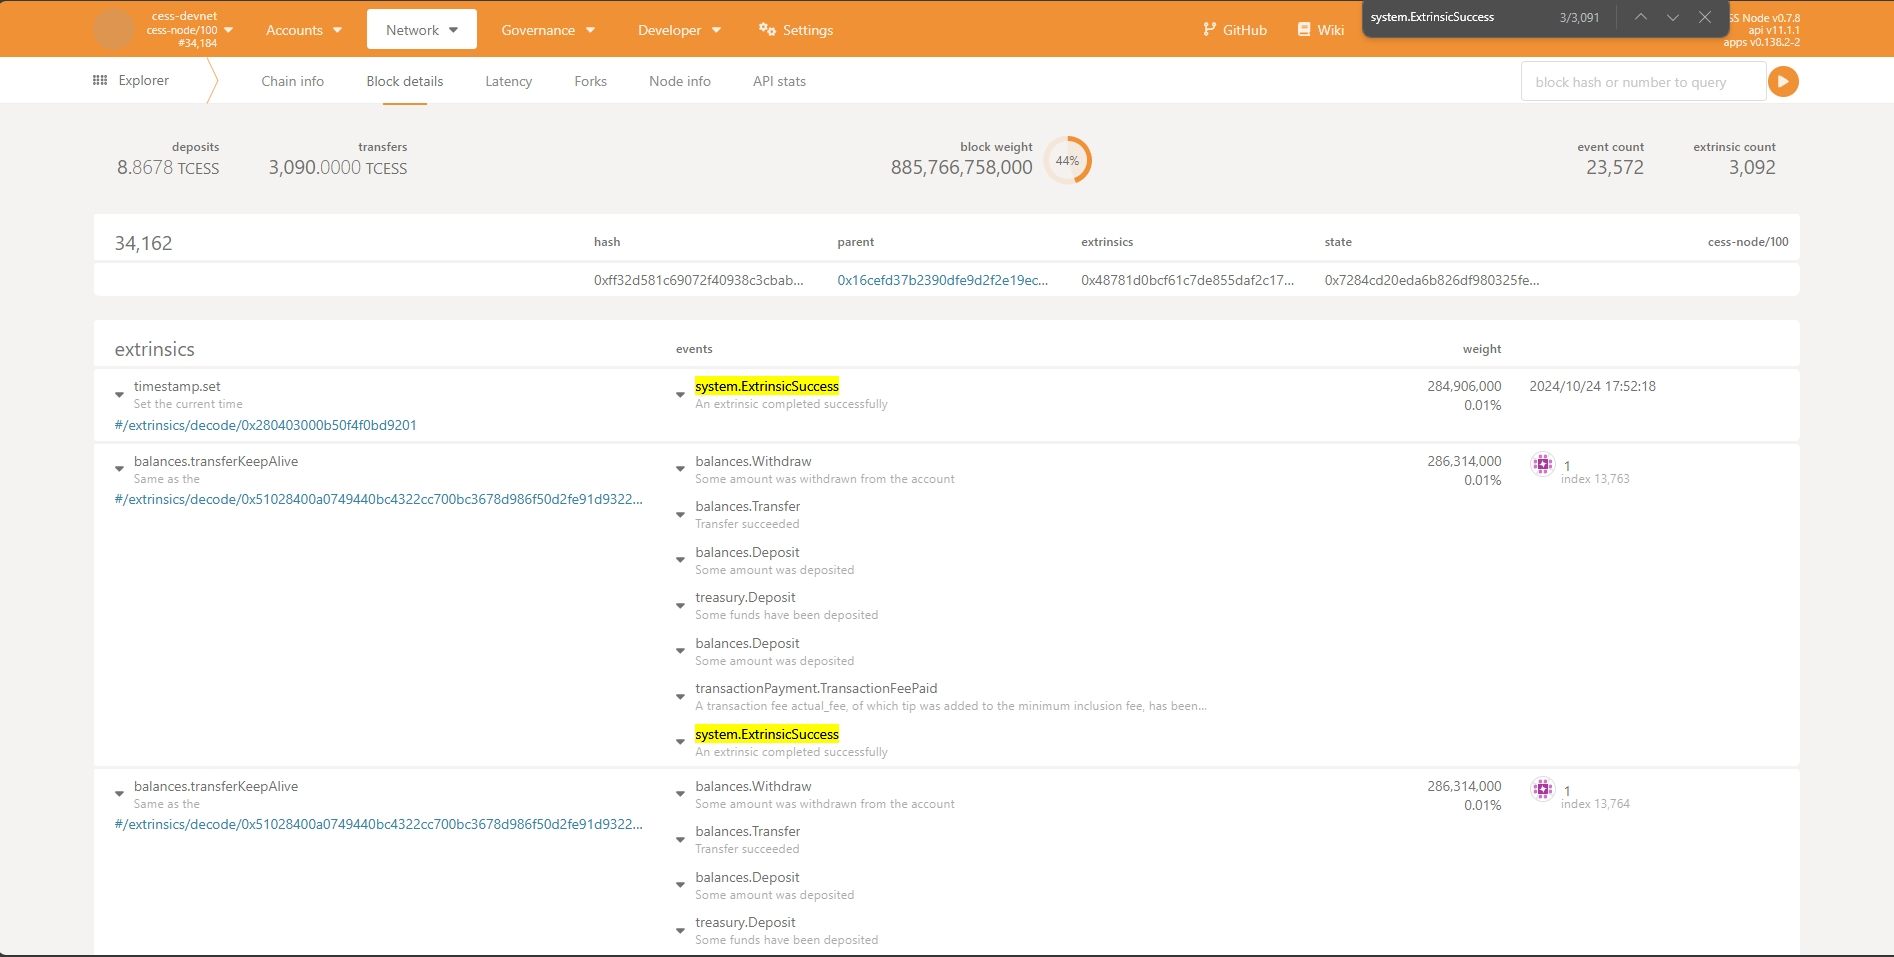
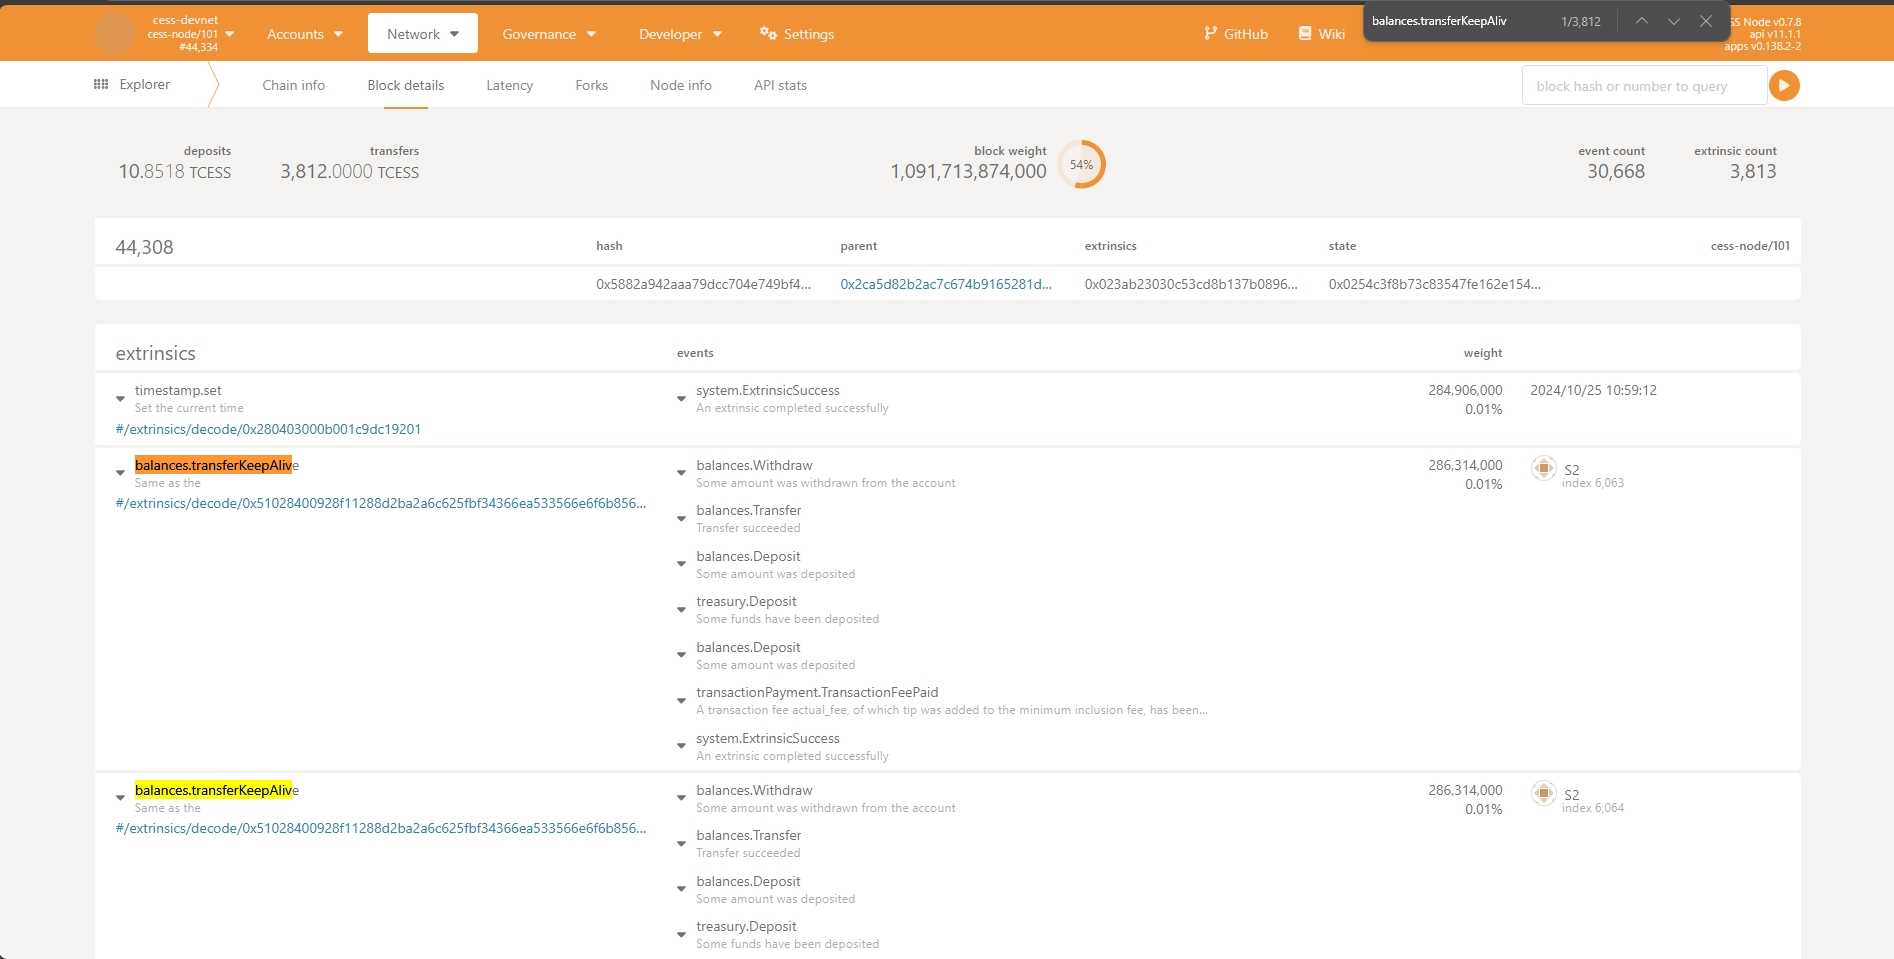
chore: update readme content

diff --git a/README.md b/README.md
@@ -8,7 +8,7 @@ CESS Chain TPS Testing: **The threshold of the number of transactions per second
 
 2: install `Node.js 18` and then execute command: `npm install`
 
-3: set `SourceAccountMnemonic` and `RequestCount` in `config.js`
+3: set `ChainURL`, `SourceAccountMnemonic`, `GenerateAccountCount` and `RequestCount` in `config.js`
 
 4: execute command to generate target accounts: `node init.js`
 
@@ -17,5 +17,5 @@ CESS Chain TPS Testing: **The threshold of the number of transactions per second
 ![img.png](public/img.png)
 
 # Conclusion
-This general test shows that a single CESS blockchain can achieve over **500** TPS (3092 transactions, one block every 6 seconds) for balance transfer transactions. If the Performance benchmark is used, it will exceed **1000** TPS.
+This general test shows that a single CESS blockchain can achieve over **635** TPS (3812 transactions, one block every 6 seconds) for balance transfer transactions. If the Performance benchmark is used, it will exceed **1000** TPS.
 This is enough to meet the current needs of CESS's distributed storage. If demand surges in the future, CESS can run over 100 parachains; the projected TPS is well over **100,000**. 
